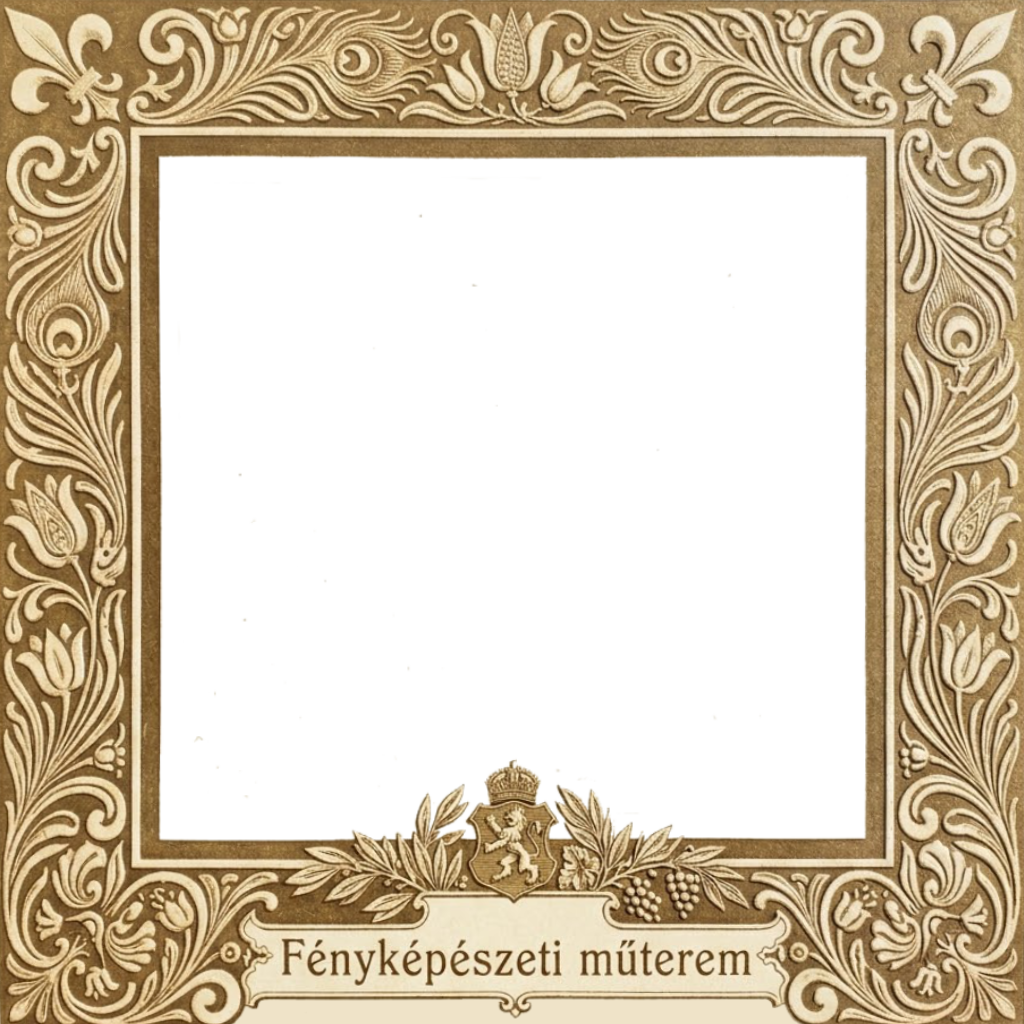
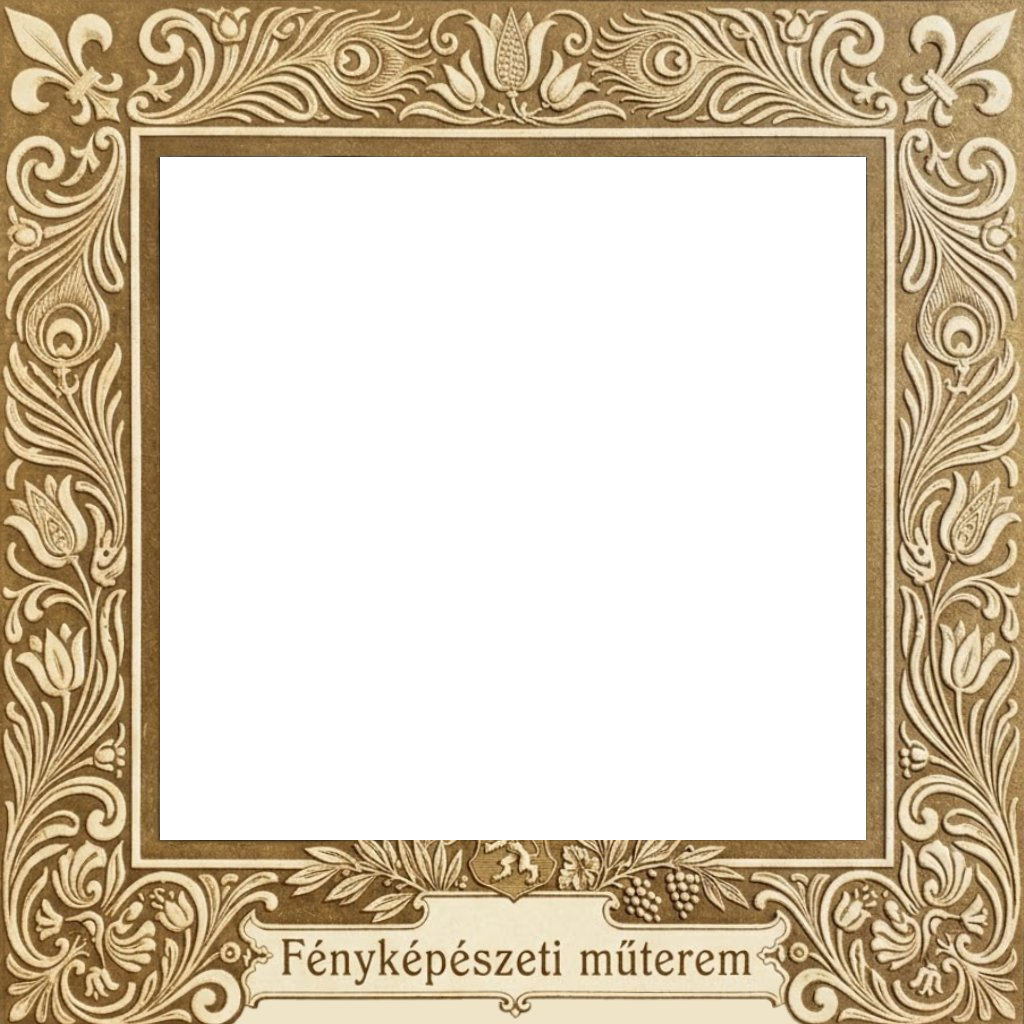
Add files via upload

Changed region(s): [[0.3438, 0.75, 0.6875, 0.8438]]

diff --git a/app.js b/app.js
@@ -327,13 +327,14 @@ async function capture(){
   let cw=OUT,ch=OUT,photoX=0,photoY=0,photoS=OUT;
 
   if(frame==='antik'){
-    // Antik inner area at 1024px source: top=157,bot=901,left=159,right=865
-    // Scale to OUT
+    // Frame PNG is 1024x1024, inner black area: top=157,bot=839,left=160,right=865
+    // Scale to OUT=1080
     const scale=OUT/1024;
-    const iT=157*scale,iB=901*scale,iL=159*scale,iR=865*scale;
+    const iT=Math.round(157*scale),iB=Math.round(839*scale);
+    const iL=Math.round(160*scale),iR=Math.round(865*scale);
     const iW=iR-iL,iH=iB-iT;
-    const margin=14;
-    photoS=Math.round(Math.min(iW,iH))-margin*2;
+    const margin=12;
+    photoS=Math.min(iW,iH)-margin*2;
     photoX=Math.round(iL+(iW-photoS)/2);
     photoY=Math.round(iT+(iH-photoS)/2);
     cw=OUT;ch=OUT;
@@ -466,11 +467,19 @@ document.querySelectorAll('.mode-btn').forEach(btn=>{
 
 document.getElementById('photo-overlay-close').addEventListener('click',()=>{
   document.getElementById('photo-overlay').classList.add('hidden');
+  document.getElementById('photo-preview-img').src='';
+});
+
+document.getElementById('photo-save-btn').addEventListener('click',()=>{
   const img=document.getElementById('photo-preview-img');
-  if(!/iPhone|iPad|iPod|Android/i.test(navigator.userAgent)&&img.src){
-    const a=document.createElement('a');a.href=img.src;a.download=img.getAttribute('data-filename')||'Analogia.jpg';a.click();
-  }
-  img.src='';
+  if(!img.src)return;
+  const a=document.createElement('a');
+  a.href=img.src;a.download=img.getAttribute('data-filename')||'Analogia.jpg';
+  document.body.appendChild(a);a.click();document.body.removeChild(a);
+  setTimeout(()=>{
+    document.getElementById('photo-overlay').classList.add('hidden');
+    img.src='';
+  },400);
 });
 
 /* ── Boot ── */

diff --git a/index.html b/index.html
@@ -34,7 +34,10 @@
       <span>📥 Tartsd lenyomva a képet a mentéshez</span>
     </div>
     <img id="photo-preview-img" class="photo-preview-img" alt="Fotó előnézet"/>
-    <button class="photo-overlay-close" id="photo-overlay-close">BEZÁRÁS</button>
+    <div class="photo-overlay-actions">
+      <button class="photo-overlay-save" id="photo-save-btn">⬇ MENTÉS / LETÖLTÉS</button>
+      <button class="photo-overlay-close" id="photo-overlay-close">BEZÁRÁS</button>
+    </div>
   </div>
 </div>
 

diff --git a/style.css b/style.css
@@ -157,5 +157,8 @@ html,body{width:100%;height:100%;overflow:hidden;background:#000;font-family:var
 .photo-overlay-hint{background:rgba(200,168,75,.15);border:1px solid var(--gold-dim);padding:10px 16px;border-radius:4px;text-align:center}
 .photo-overlay-hint span{font-size:12px;letter-spacing:.1em;color:var(--gold)}
 .photo-preview-img{width:100%;max-width:400px;border:2px solid var(--gold-dim);display:block;-webkit-touch-callout:default !important;touch-action:auto}
-.photo-overlay-close{font-family:var(--font);font-size:11px;letter-spacing:.16em;color:var(--muted);background:var(--metal2);border:1px solid var(--dim);padding:10px 28px;cursor:pointer;margin-top:4px}
+.photo-overlay-actions{display:flex;flex-direction:column;gap:8px;width:100%;max-width:400px}
+.photo-overlay-save{font-family:var(--font);font-size:12px;letter-spacing:.14em;color:var(--bg);background:var(--gold);border:none;padding:13px;cursor:pointer;border-radius:2px;font-weight:500}
+.photo-overlay-save:active{filter:brightness(.9)}
+.photo-overlay-close{font-family:var(--font);font-size:11px;letter-spacing:.16em;color:var(--muted);background:var(--metal2);border:1px solid var(--dim);padding:10px 28px;cursor:pointer}
 .photo-overlay-close:active{background:var(--metal)}